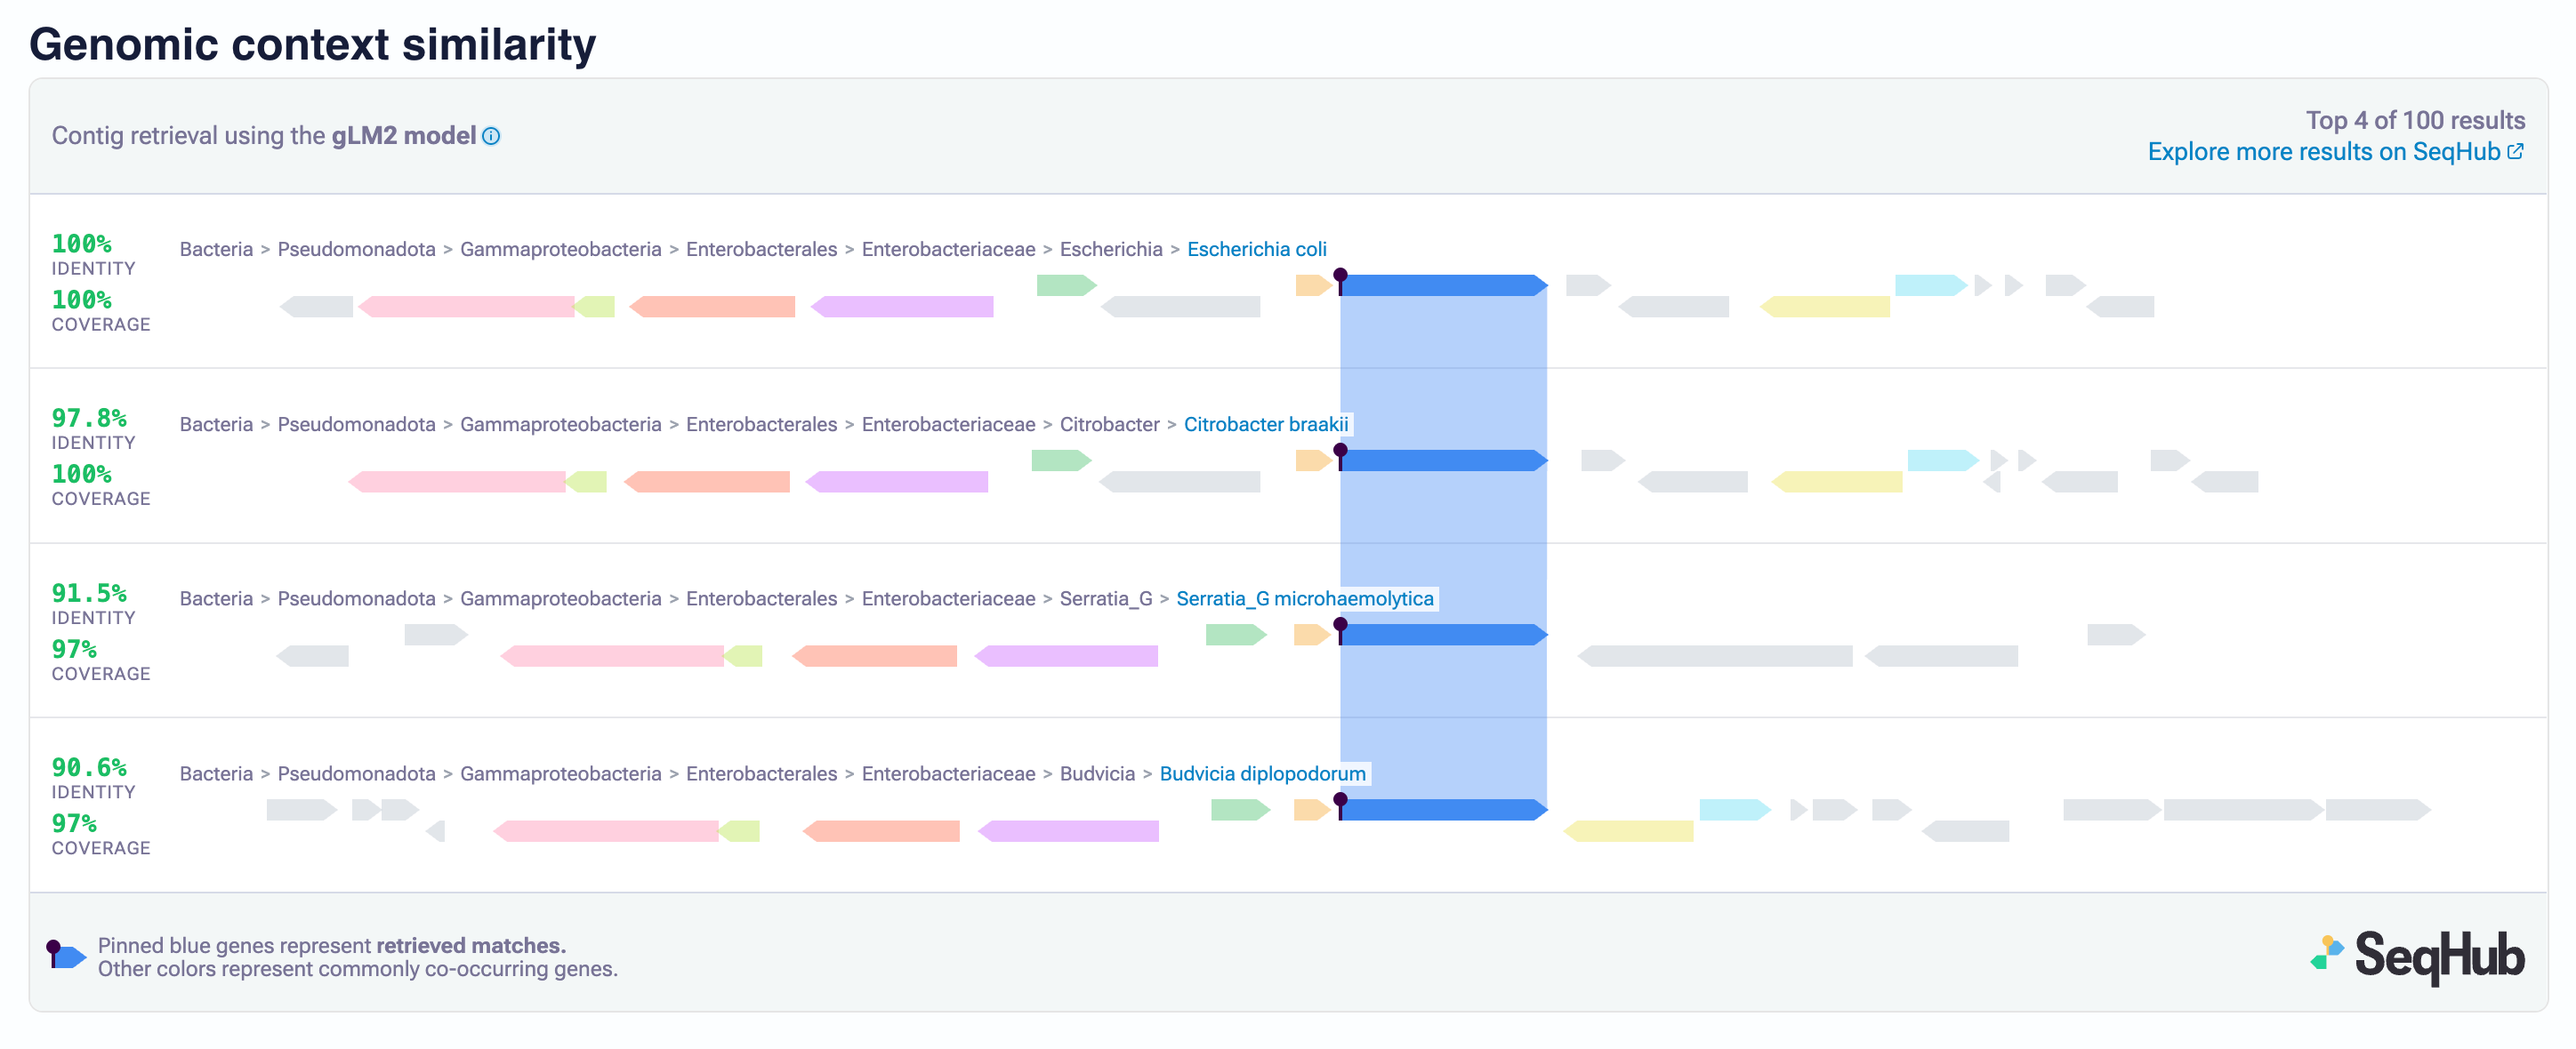
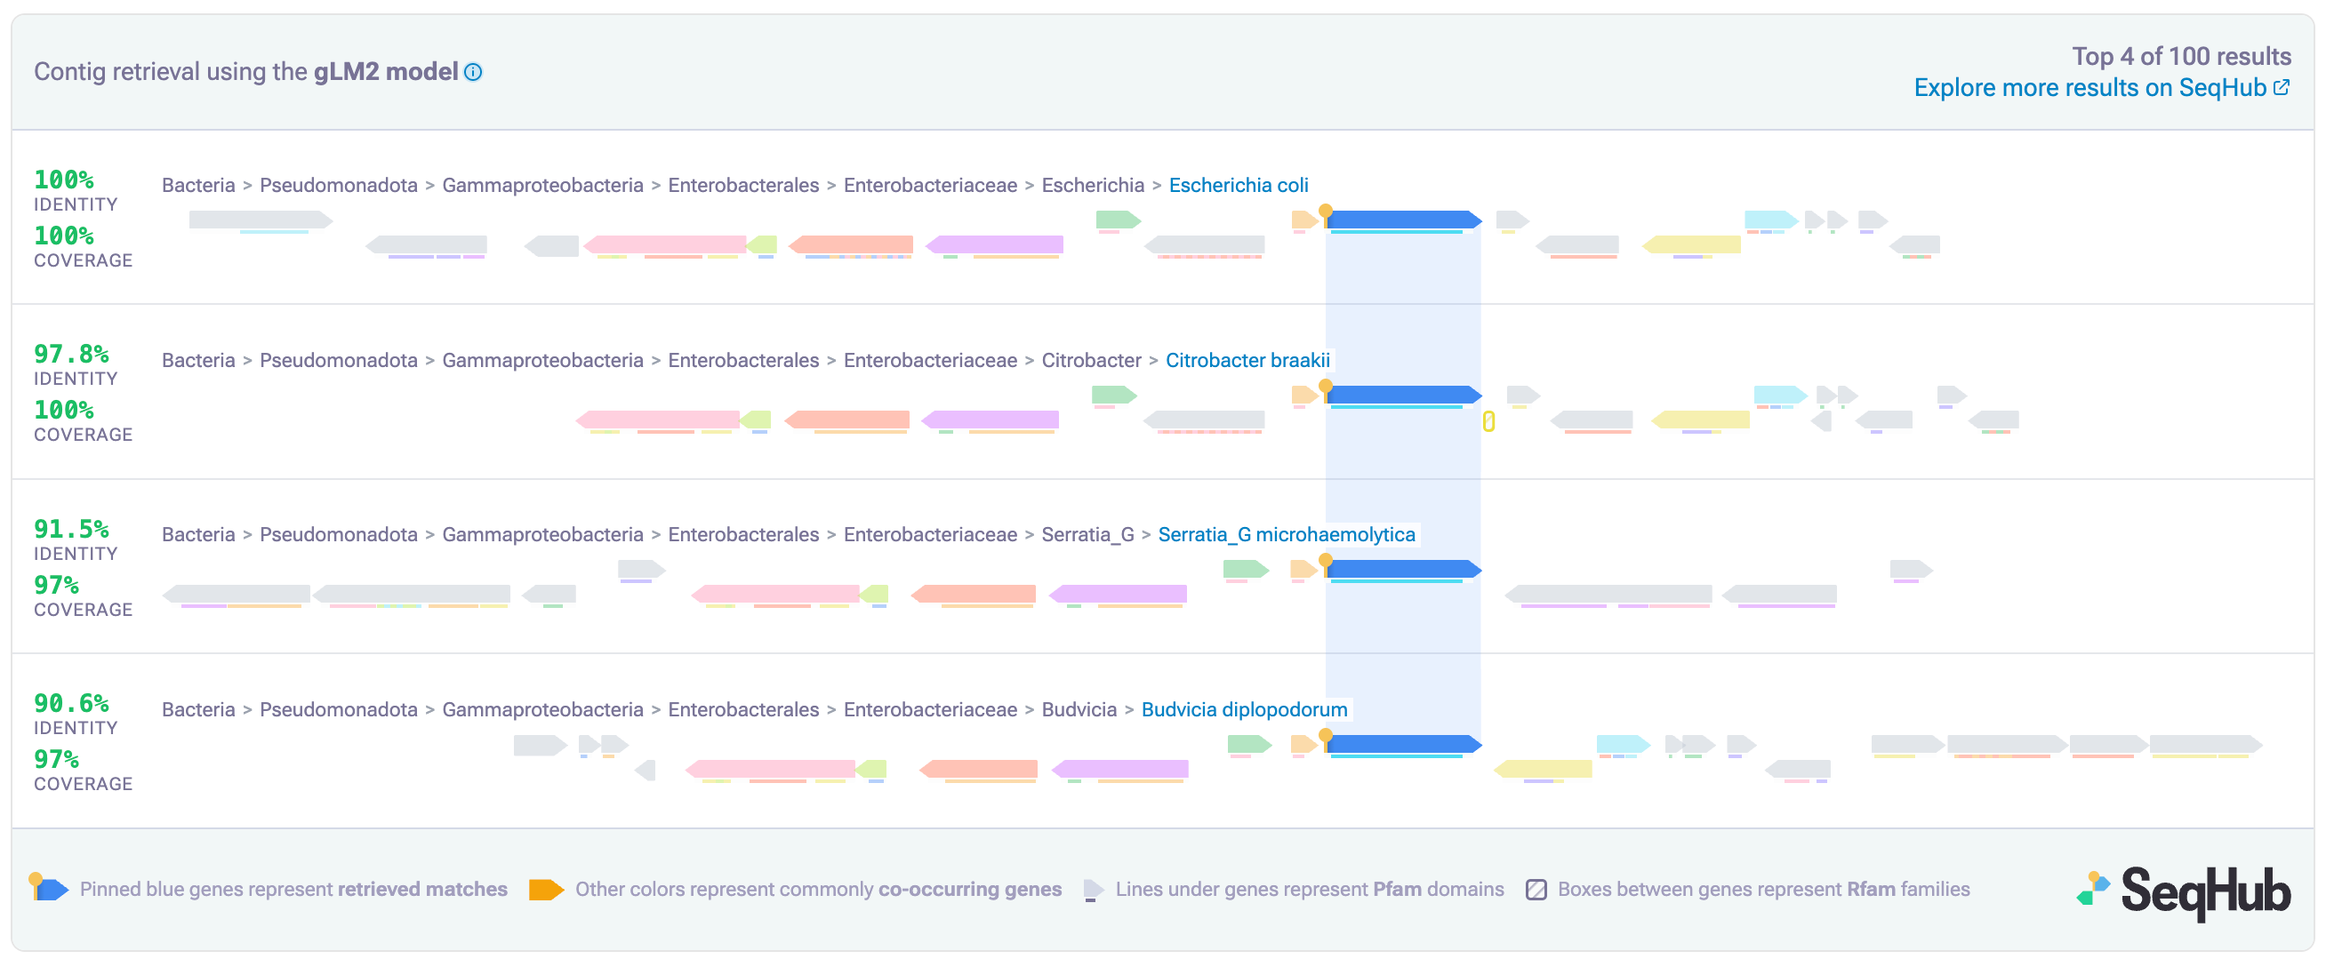
update seqhub help page with new images for pfam integration

diff --git a/help/genomic-context-similarity.md b/help/genomic-context-similarity.md
@@ -30,7 +30,7 @@ The pinned genes (shown with a pin on the left side, centered within the row) co
 
 ### 2. Surrounding genes
 
-The genes on either side of the pinned gene make up its genomic neighborhood, the genes physically located next to it in its source genome. Genes shown in color (vs. gray) are ones that commonly co-occur alongside the pinned match gene across genomes and taxa.
+The genes on either side of the pinned gene make up its genomic neighborhood, the genes physically located next to it in its source genome. Genes shown in color (vs. gray) are ones that commonly co-occur alongside the pinned match gene across genomes and taxa. Colored lines below each gene indicate Pfam domains. Additionally, Rfam hits are shown as striped boxes between genes.
 
 ![Surrounding genes](<https://github.com/ebi-uniprot/uniprot-manual/raw/main/images/Seqhub-iframe_surrounding genes.png>)
 <br>
@@ -47,7 +47,7 @@ These two values describe how closely the pinned protein matches the sequence of
 Hovering over a gene brings up a tooltip with:
 
 * Predicted protein name (e.g., “Chaperonin GroEL") based on gLM2 (Tatta Bio’s model), which links to the associated protein entry page in UniProt 
-* Strand, length, gap to match and genomic position (in base pairs) for the gene associated with the protein
+* Pfam domain hits identified on the protein sequence
 
 ![Functional annotations on mouse hover](https://github.com/ebi-uniprot/uniprot-manual/raw/main/images/Seqhub-iframe_hover_annotation.png)
 
